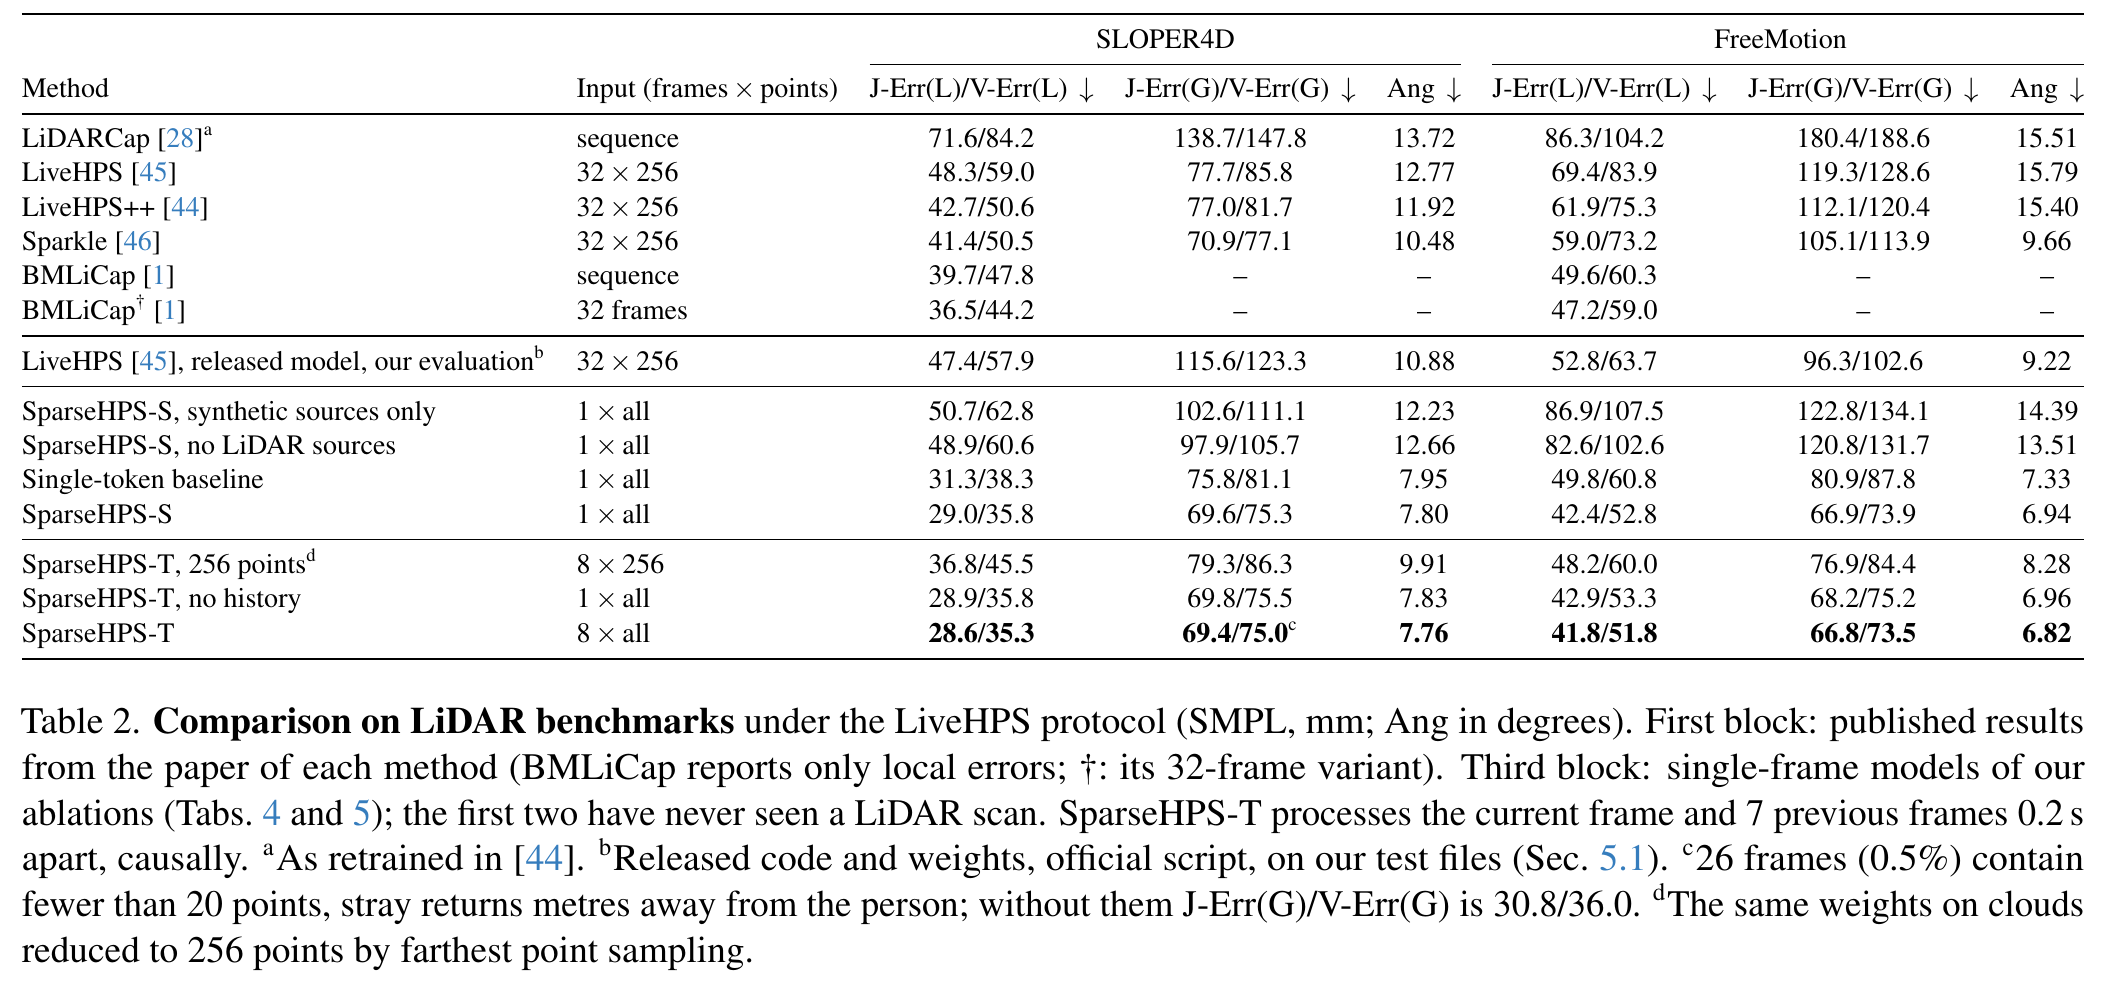
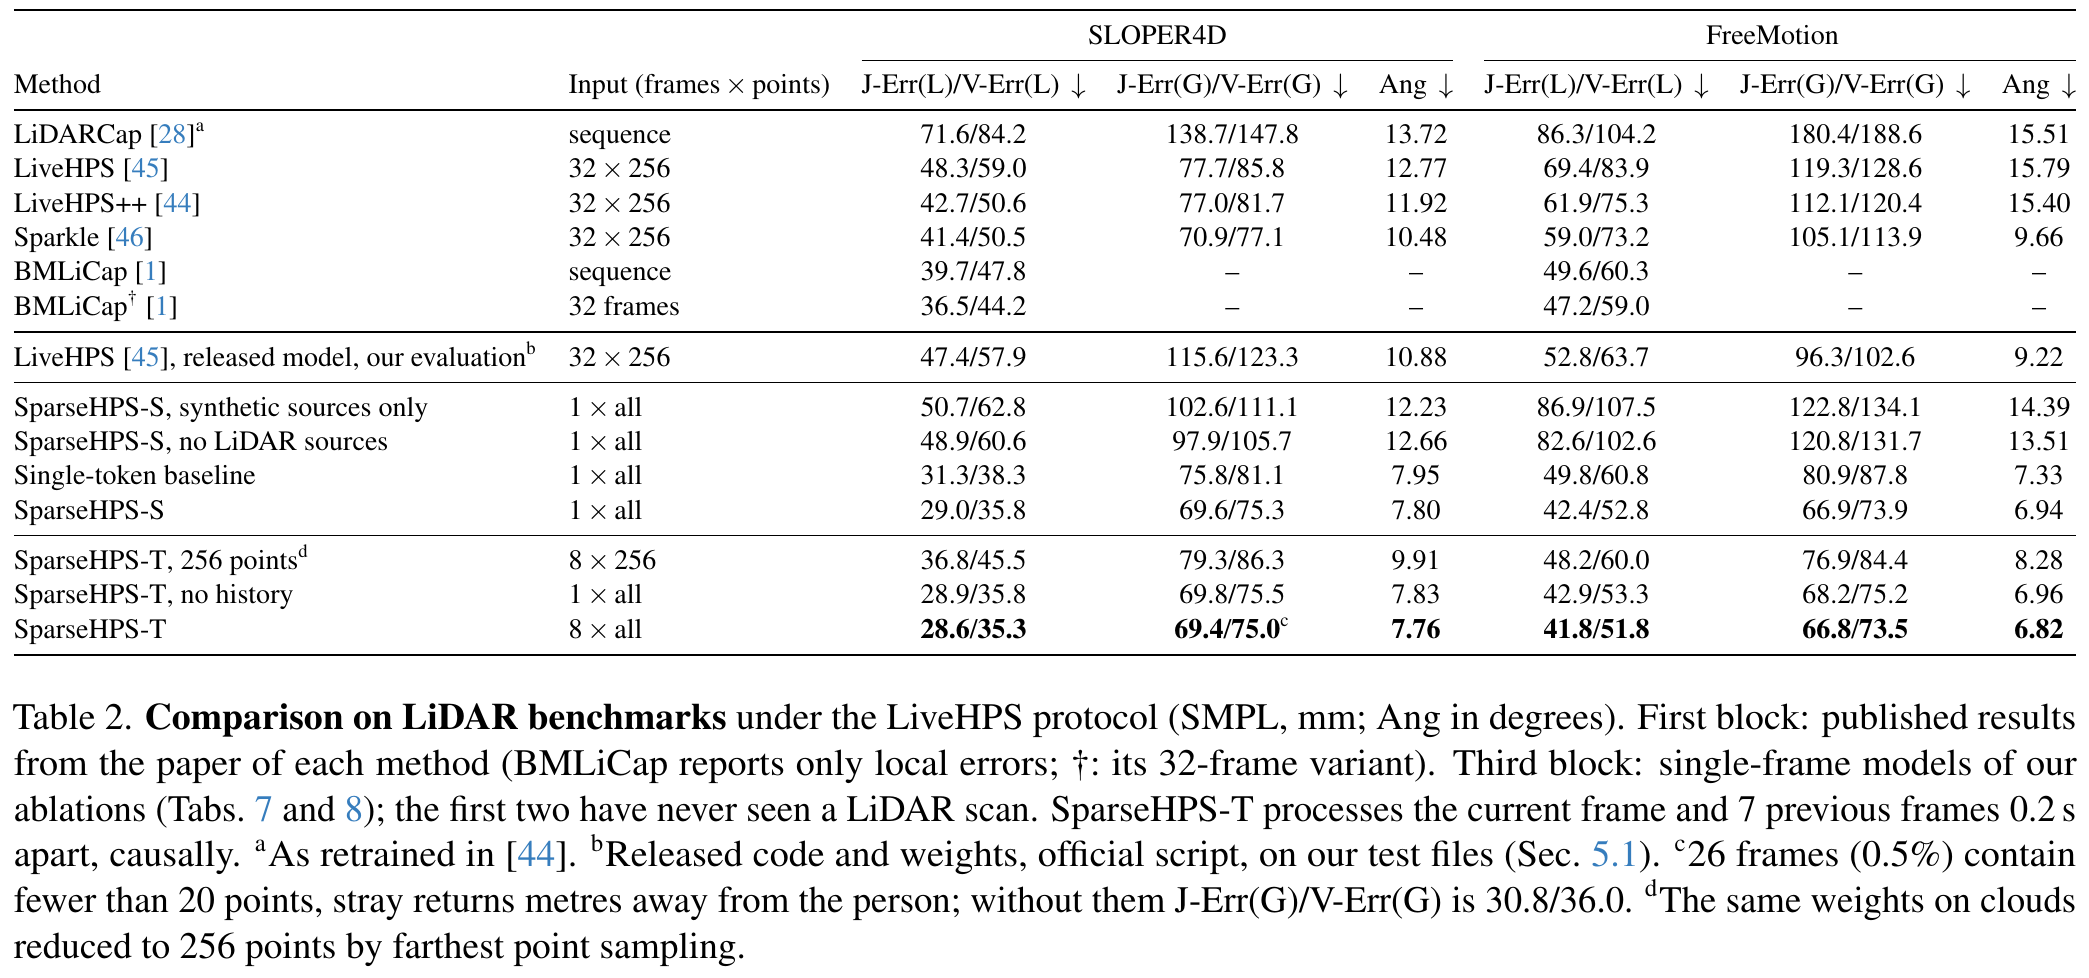
Results: six benchmarks (RELI11D, EgoBody, BEDLAM2, FORM-HOI tables), radar Figure 1, HuMMan leader MetricPose

Changed region(s): [[0.0, 0.0, 0.9957, 0.6748], [0.0, 0.7055, 0.9957, 0.9816]]

diff --git a/index.html b/index.html
@@ -69,7 +69,8 @@
     <div class="stats">
       <div class="stat"><div class="v">28.6&nbsp;mm</div><div class="k">SLOPER4D J-Err(L), LiDAR. Prior SOTA: 36.5&nbsp;mm (32 frames)</div></div>
       <div class="stat"><div class="v">41.8&nbsp;mm</div><div class="k">FreeMotion J-Err(L), LiDAR. Prior SOTA: 47.2&nbsp;mm (32 frames)</div></div>
-      <div class="stat"><div class="v">34.7&nbsp;mm</div><div class="k">HuMMan J-Err(L), real Azure Kinect. Prior SOTA: 63.5&nbsp;mm (32 frames)</div></div>
+      <div class="stat"><div class="v">25.9&nbsp;mm</div><div class="k">RELI11D MPJPE, LiDAR, official protocol. Prior SOTA: 49.2&nbsp;mm (LiDAR + RGB + event)</div></div>
+      <div class="stat"><div class="v">34.7&nbsp;mm</div><div class="k">HuMMan J-Err(L), real Azure Kinect. Prior SOTA: 37.9&nbsp;mm (RGB&#8209;D)</div></div>
       <div class="stat"><div class="v">10&nbsp;ms</div><div class="k">one cloud on an RTX&nbsp;4090 (single-frame mode); 50.0M parameters</div></div>
     </div>
   </div>
@@ -112,8 +113,8 @@
       <div>
         <h3>Errors per sensor</h3>
         <div class="figure">
-          <a href="static/img/figure1.png" title="Open full size"><img src="static/img/figure1.png" width="1429" height="1701" style="width:100%;height:auto" loading="lazy"
-            alt="Figure 1 of the paper. Top: test samples from HuMMan (depth camera, 1.7k points), SLOPER4D (LiDAR, 0.8k points) and FreeMotion (LiDAR, 90 points): input, single-frame output of SparseHPS and ground truth. Bottom: root-relative joint errors J-Err(L): SLOPER4D 36.5 mm for the best published (BMLiCap) against 28.9 / 28.6 mm for SparseHPS-T with 1 / 8 frames; FreeMotion 47.2 against 42.9 / 41.8 mm; HuMMan 63.5 mm for Sparkle under another protocol against 34.7 / 34.7 mm."></a>
+          <a href="static/img/figure1.png" title="Open full size"><img src="static/img/figure1.png" width="1425" height="2464" style="width:100%;height:auto" loading="lazy"
+            alt="Figure 1 of the paper. Top: test samples from HuMMan (depth camera, 1.7k points), SLOPER4D (LiDAR, 0.8k points) and FreeMotion (LiDAR, 90 points): input, single-frame output of SparseHPS and ground truth. Bottom: radar chart of root-relative joint errors on six benchmarks, one line per method, lower errors closer to the centre. SparseHPS-T from one frame: SLOPER4D 28.9, FreeMotion 42.9, RELI11D 25.9, BEDLAM2 26.2, EgoBody 33.4 and HuMMan 34.7 mm, inside the lines of LiveHPS++, Sparkle, BMLiCap, LEIR, SAM 3D Body and MetricPose."></a>
         </div>
         <p class="caption">Figure&nbsp;1 of the paper.</p>
       </div>
@@ -128,17 +129,38 @@
     <p class="caption">Prior methods read 32 frames of 256 points; SparseHPS-T reads all points of the current frame and
       at most seven earlier frames.</p>
     <div class="figure table-fig">
-      <a href="static/img/table_lidar.png" title="Open full size"><img src="static/img/table_lidar.png" width="2106" height="991" loading="lazy"
+      <a href="static/img/table_lidar.png" title="Open full size"><img src="static/img/table_lidar.png" width="2089" height="978" loading="lazy"
         alt="Table 2 of the paper: comparison on the SLOPER4D and FreeMotion LiDAR benchmarks under the LiveHPS protocol. SparseHPS-T has the lowest errors on both: J/V-Err(L) 28.6/35.3 mm on SLOPER4D and 41.8/51.8 mm on FreeMotion, against 41.4/50.5 and 59.0/73.2 mm for Sparkle."></a>
     </div>
     <p class="caption">Table&nbsp;2 of the paper. Numbers in brackets refer to the paper's references.</p>
 
-    <h3 style="margin-top:34px">Depth camera: HuMMan-Point (real Azure Kinect)</h3>
+    <h3 style="margin-top:34px">LiDAR: RELI11D (official protocol)</h3>
     <div class="figure table-fig narrow">
-      <a href="static/img/table_humman.png" title="Open full size"><img src="static/img/table_humman.png" width="1445" height="1146" loading="lazy"
-        alt="Table 3 of the paper: real Azure Kinect clouds of HuMMan. Prior work under the PointHPS protocol: Sparkle 63.5/76.4 mm J/V-Err(L). SparseHPS-T on 42 held-out subjects: 34.7/44.3 mm; the two blocks are not directly comparable."></a>
+      <a href="static/img/table_reli.png" title="Open full size"><img src="static/img/table_reli.png" width="1414" height="801" loading="lazy"
+        alt="Table 4 of the paper: RELI11D under its official protocol. LEIR 59.9/48.2 mm MPJPE/PA-MPJPE with LiDAR and 49.2/40.9 mm with LiDAR, RGB and event cameras; LEIR with the authors' weights in our evaluation 50.5/40.5 mm; SparseHPS-T from single frames of 512 points 25.9/23.1 mm."></a>
+    </div>
+    <p class="caption">Table&nbsp;4 of the paper. Numbers in brackets refer to the paper's references.</p>
+
+    <h3 style="margin-top:34px">Depth camera: HuMMan (real Azure Kinect)</h3>
+    <div class="figure table-fig narrow">
+      <a href="static/img/table_humman.png" title="Open full size"><img src="static/img/table_humman.png" width="1424" height="1600" loading="lazy"
+        alt="Table 3 of the paper: real Azure Kinect clouds of HuMMan. Sparkle 63.5/76.4 mm J/V-Err(L) under the PointHPS protocol; MetricPose with RGB-D input 37.9 mm; SparseHPS-T on 42 held-out subjects 34.7/44.3 mm, and 54.0/67.4 mm from 256 points per frame."></a>
     </div>
     <p class="caption">Table&nbsp;3 of the paper. Numbers in brackets refer to the paper's references.</p>
+
+    <h3 style="margin-top:34px">Depth camera: EgoBody (real Azure Kinect)</h3>
+    <div class="figure table-fig narrow">
+      <a href="static/img/table_egobody.png" title="Open full size"><img src="static/img/table_egobody.png" width="1421" height="899" loading="lazy"
+        alt="Table 6 of the paper: EgoBody in the protocol of MetricPose. SAM 3D Body 57.5/32.1/97.4 mm, MetricPose 46.8/29.7/47.5 mm, SparseHPS-T 33.4/27.0/43.0 mm (MPJPE, PA-MPJPE, camera-frame MPJPE)."></a>
+    </div>
+    <p class="caption">Table&nbsp;6 of the paper. Numbers in brackets refer to the paper's references.</p>
+
+    <h3 style="margin-top:34px">Rendered and stereo depth: BEDLAM2 and FORM-HOI</h3>
+    <div class="figure table-fig narrow">
+      <a href="static/img/table_b2.png" title="Open full size"><img src="static/img/table_b2.png" width="1423" height="1441" loading="lazy"
+        alt="Table 5 of the paper: BEDLAM2 and FORM-HOI in the protocols of recent methods. BEDLAM2 test protocol: PromptHMR 32.0/55.7/47.5 mm, SparseHPS-T 23.4/38.6/32.0 mm; MetricPose protocol: MetricPose 30.2/50.4/166.1 mm, SparseHPS-T 20.1/26.2/28.5 mm; FORM-HOI 23.5/39.7/33.3 and 19.4/27.0/30.8 mm."></a>
+    </div>
+    <p class="caption">Table&nbsp;5 of the paper. Numbers in brackets refer to the paper's references.</p>
 
     <h3 style="margin-top:34px">Every single-frame test set</h3>
     <div class="table-wrap sets-table">

diff --git a/README.md b/README.md
@@ -27,13 +27,17 @@ streams, in 10 ms per cloud on an RTX 4090.
 
 ## Highlights
 
-J-Err(L), root-relative joint error in mm under the LiveHPS protocol:
+Root-relative joint error in mm: J-Err(L) under the LiveHPS protocol on SLOPER4D, FreeMotion and HuMMan, the official
+MPJPE on RELI11D, MPJPE relative to the pelvis on EgoBody and BEDLAM2 (SparseHPS-T from single frames on these three):
 
-| Benchmark | Sensor | SparseHPS-T | Best published (32 frames) |
+| Benchmark | Sensor | SparseHPS-T | Best published |
 |---|---|---:|---:|
-| **SLOPER4D** | moving LiDAR | **28.6** | 36.5 |
-| **FreeMotion** | static LiDARs, released test file | **41.8** | 47.2 |
-| **HuMMan** | real Azure Kinect, 42 held-out subjects | **34.7** | 63.5 (Sparkle, PointHPS split) |
+| **SLOPER4D** | moving LiDAR | **28.6** | 36.5 (BMLiCap, 32 frames) |
+| **FreeMotion** | static LiDARs, released test file | **41.8** | 47.2 (BMLiCap, 32 frames) |
+| **RELI11D** | static LiDAR, official test files | **25.9** | 49.2 (LEIR, LiDAR + RGB + event) |
+| **HuMMan** | real Azure Kinect, 42 held-out subjects | **34.7** | 37.9 (MetricPose, RGB-D) |
+| **EgoBody** | real Azure Kinect, official test split | **33.4** | 46.8 (MetricPose, RGB-D) |
+| **BEDLAM2** | rendered depth, held-out subjects | **26.2** | 50.4 (MetricPose, RGB-D) |
 
 - **Sensor-agnostic.** Point density differs by more than ten times between devices; one set of weights serves depth
   cameras and LiDARs.
@@ -73,15 +77,18 @@ model of all results and demos, is trained on all ten sources and adds the memor
 
 ## Results
 
-<p align="center"><img src="static/img/figure1.png" width="60%" alt="Figure 1 of the paper: test samples from HuMMan, SLOPER4D and FreeMotion (input, ours, GT) and root-relative joint errors per sensor"></p>
+<p align="center"><img src="static/img/figure1.png" width="60%" alt="Figure 1 of the paper: test samples from HuMMan, SLOPER4D and FreeMotion (input, ours, GT) and a radar chart of root-relative joint errors on six benchmarks"></p>
 
-<sub>Figure 1 of the paper. LiveHPS, LiveHPS++ and Sparkle read 32 frames of 256 points.</sub>
+<sub>Figure 1 of the paper: one line per method, lower errors closer to the centre.</sub>
 
 <details>
-<summary><b>Comparison tables from the paper</b> (LiDAR benchmarks and HuMMan-Point)</summary>
+<summary><b>Comparison tables from the paper</b> (SLOPER4D, FreeMotion, RELI11D, HuMMan, EgoBody, BEDLAM2, FORM-HOI)</summary>
 <br>
 <p align="center"><img src="static/img/table_lidar.png" width="100%" alt="Table 2: comparison on the SLOPER4D and FreeMotion LiDAR benchmarks"></p>
+<p align="center"><img src="static/img/table_reli.png" width="60%" alt="Table 4: RELI11D under its official protocol"></p>
 <p align="center"><img src="static/img/table_humman.png" width="60%" alt="Table 3: real Azure Kinect clouds of HuMMan"></p>
+<p align="center"><img src="static/img/table_egobody.png" width="60%" alt="Table 6: EgoBody in the protocol of MetricPose"></p>
+<p align="center"><img src="static/img/table_b2.png" width="60%" alt="Table 5: BEDLAM2 and FORM-HOI in the protocols of recent methods"></p>
 <sub>Numbers in brackets refer to the paper's references.</sub>
 </details>
 
